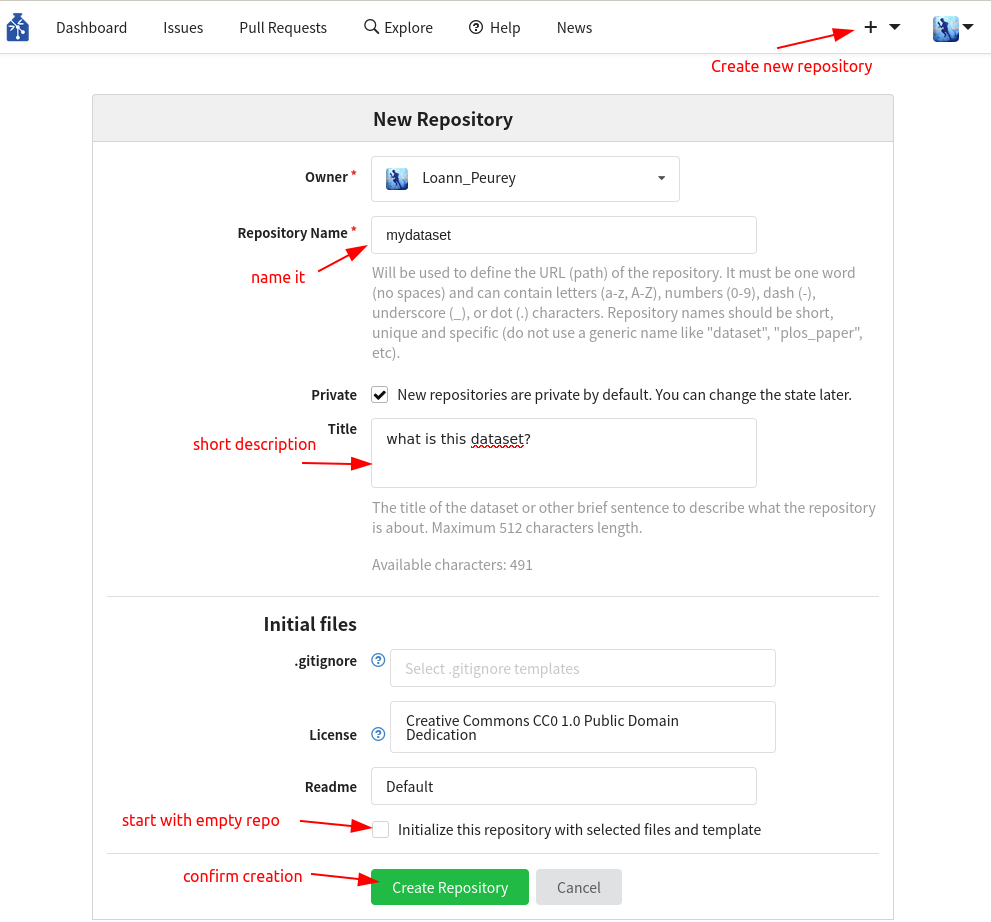
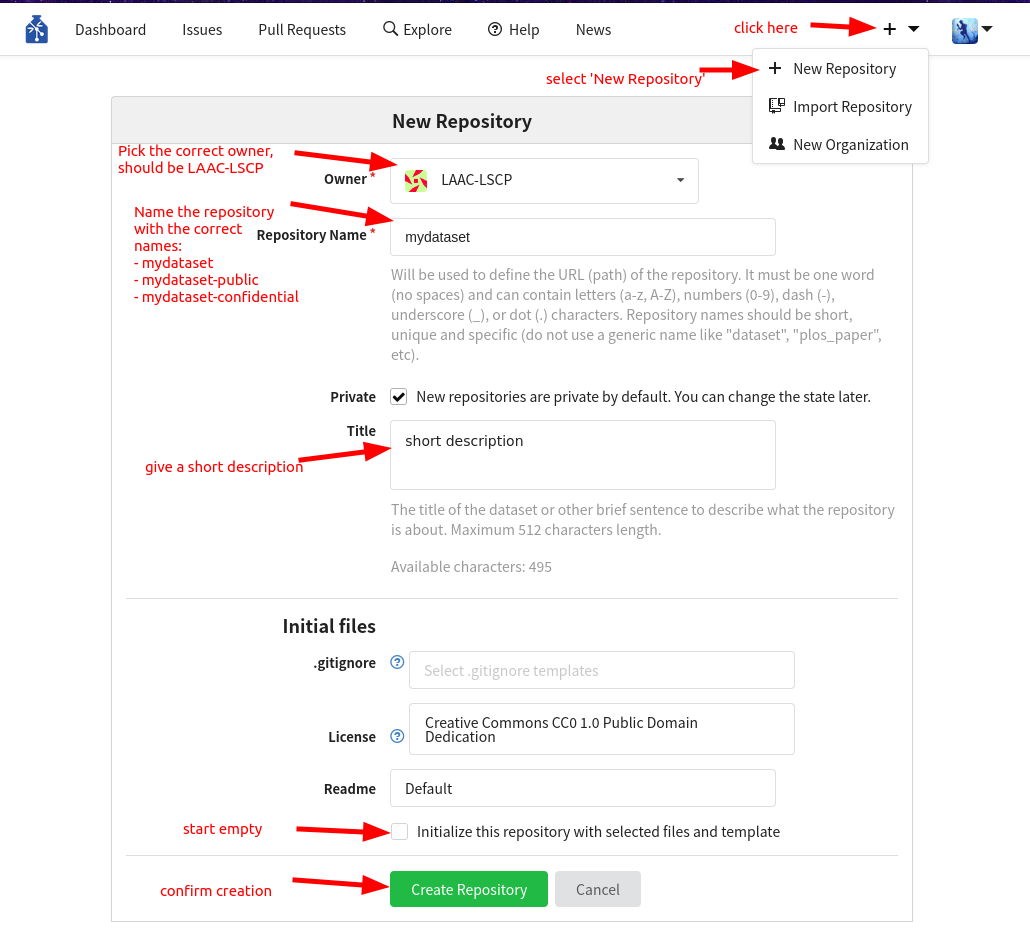
GIN repos and datalad-procedures usage

diff --git a/docs/create-a-new-dataset.md b/docs/create-a-new-dataset.md
@@ -74,9 +74,9 @@ child-project --version
 
 To facilitate the dataset creation, we use templates that you need to install. First navigate your working folder (e.g. `cd /scratch2/<username>` replace username with your actual username). Enter the following command lines to clone the repo and launch the installation :
 ```bash
-cd /scratch2/username #change the path to a working directory
+cd /scratch2/username #change the path to a working directory where we create a new folder for the installation
 
-# copy the code into a new folder
+# copy the code into a new folder named datalad-procedures
 git clone https://github.com/LAAC-LSCP/datalad-procedures.git
 
 # go into the newly created folder
@@ -119,7 +119,7 @@ Confirm the addition of the key.
 
 ![confirm addition](../ressources/img/gin-confirm-ssh.png)
 
-## It has been a long time since I have done this:
+## I have done this before, get me back on track:
 
 This section lists the checks you should carry out before using the guide, knowing that you went through it before and you should not need to install new programms or register to new websites. If it does not work out, go back to the relevant [first use section](#first-time-users).
 
@@ -163,24 +163,14 @@ cfg_laac (/my/conda/env/lib/python3.6/site-packages/datalad/resources/procedures
 ```
 Look for the `cfg_laac` entry in the list, it is the one we want to use. You are good to go if it is there.
 
+Otherwise, refer to the [installation section](#datalad-procedures).
+
 ### GIN account
 
 If you did that in the past, you should already have a GIN account. [Sign in](https://gin.g-node.org/user/login?redirect_to=){:target="_blank"} to your GIN account.
 You should check that the computer you are working from has a linked ssh key to GIN. Go to your account's [ssh settings](https://gin.g-node.org/user/settings/ssh){:target="_blank"} and search in the list for the key associated to the machine you are working with (most likely oberon). If you can't find it, you may need to [add it](#gin-account).
 
-## Prerequisites
-
-In order to follow this guide, you will need to have childproject installed along with datalad and git-annex. If that is not the case, follow the [installation instructions](https://childproject.readthedocs.io/en/latest/install.html#installation){:target="_blank"}. You most likely will run it in a conda environment, so make sure it is activated:
-```bash
-conda activate childproject
-```
-
-We use [GIN](https://gin.g-node.org/G-Node/info/wiki){:target="_blank"} as an online platform for storing our repositories. To publish your dataset, you will need a GIN account that has writing permissions for your dataset. You should have created an account already, if not do it [here](https://gin.g-node.org/user/sign_up){:target="_blank"}. Once you have an account, Loann/Alex should give you writing permissions on a dataset within the [LAAC-LSCP organization](https://gin.g-node.org/LAAC-LSCP/).
-For every new computer that you will use to push updates to your dataset, You have to register an SSH key to allow SSH access (you can find an explanation of what SSH keys are and how you can create one in this [tutorial](https://docs.github.com/en/authentication/connecting-to-github-with-ssh/about-ssh){:target="_blank"}). You only need to do this once per computer, and it'll be set for all of your datasets & forever. To set SSH access, visit the [settings of your user account](https://gin.g-node.org/user/settings/ssh){:target="_blank"}. In the “SSH Keys” tab, click the button “Add Key”:
-![Add your SSH key](../ressources/img/gin-add-ssh.png)
-Give the key an informative name that will allow you to remember what computer it belongs to (eg “oberon-lpeurey”).
-
-## Preparing a GIN repository
+## 1. Preparing GIN repositories (5min)
 
 We are going to need a new repository on GIN where we will store our dataset and manage people's access to it once it is ready to be shared.
 Inside the lab, we regroup our datasets in the LAAC-LSCP GIN organization, so the dataset should be created there. If you have the permissions necessary to create a new repository for the organization, follow the steps in the attached figure. If you are an intern, discuss with Alex/Loann of your need of a new repository.
@@ -189,46 +179,23 @@ Unless your dataset is public (e.g. from CHILDES), you'll need 3 levels of acces
 - collaborators => data that is shared with collaborators when we grant them access to the data, usually under NDA (e.g. recordings, transcriptions)
 - public => data that can be accessed by anybody, completely anonymous so no audio, no transcription, no personal metadata (e.g. converted automated annotations).
 
-To create those levels of access, create 3 **empty** repositories in your GIN organization: `<dataset-name>` , `<dataset-name>-public` and `<dataset-name>-confidential`, e.g. `mydataset` , `mydataset-public` and `mydataset-confidential`.
-If your dataset is public, then you can create a single repository that will be public.
+If you are the one creating the repos (most likely Loann will have to create them for you), use the [creating a repo](https://gin.g-node.org/repo/create){:target="_blank"} page **3 times** in your GIN organization and create the **empty** reposotories named: 
+- `<dataset-name>` (e.g. `mydataset`)
+- `<dataset-name>-public` (e.g. `mydataset-public`)
+- `<dataset-name>-confidential` (e.g. `mydataset-confidential`)
+
+If your dataset is public, you will create a single repository that will be public.
 ![Create your Gin repository](../ressources/img/create-gin-repo.png)
 
-## Creating the base structure and datalad repository
+## 2. Creating the base structure and datalad repository (10min)
 
-### Installating the procedures
+Here we will only use the laac template which is the one we will use most of the time. If you want, you can read more about that configuration and the other templates available in [the repo](https://github.com/LAAC-LSCP/datalad-procedures){:target="_blank"}.
 
-To create your new dataset, we will borrow some help from the `datalad-procedures` code which was created for this specific pupose. If you have already created a dataset in the past, your procedures may already be set up. 
-To check your available templates, run `datalad run-procedure --discover` and explore the outputted list:
-```
-cfg_laac1 (/my/conda/env/lib/python3.6/site-packages/datalad/resources/procedures/cfg_laac1.py) [python_script]
-cfg_yoda (/my/conda/env/lib/python3.6/site-packages/datalad/resources/procedures/cfg_yoda.py) [python_script]
-cfg_el1000 (/my/conda/env/lib/python3.6/site-packages/datalad/resources/procedures/cfg_el1000.py) [python_script]
-cfg_text2git (/my/conda/env/lib/python3.6/site-packages/datalad/resources/procedures/cfg_text2git.py) [python_script]
-cfg_metadatatypes (/my/conda/env/lib/python3.6/site-packages/datalad/resources/procedures/cfg_metadatatypes.py) [python_script]
-cfg_laac2 (/my/conda/env/lib/python3.6/site-packages/datalad/resources/procedures/cfg_laac2.py) [python_script]
-cfg_laac (/my/conda/env/lib/python3.6/site-packages/datalad/resources/procedures/cfg_laac.py) [python_script]
-```
-
-If you spot `cfg_laac1`, `cfg_laac2`, `cfg_laac` and `cfg_el1000` in the list, you are already good to go and can skip to the [next section](#using-templates). If they are not here, we will have to install them. To do so, clone the repo (or navigate to it if you already have it) and launch the installation :
-```bash
-git clone https://github.com/LAAC-LSCP/datalad-procedures.git
-cd datalad-procedures
-pip install -r requirements.txt
-python install.py
-```
-
-Check again the available templates with `datalad run-procedure --discover`.
-You should now have `cfg_laac1`, `cfg_laac2`, `cfg_laac` and `cfg_el1000` in the outputted list.
-
-### Using templates
-
-We will concentrate on using the laac template which is the one we will use most of the time. You can read more about that configuration and the other templates available in [the repo](https://github.com/LAAC-LSCP/datalad-procedures){:target="_blank"}.
-
-With the next set of commands, we prepare the necessary parameters by setting the GIN organization you will use and wether to create a confidential and public sibling or not. If you use a confidential sibling, make sure you created 2 repositories on GIN at [the previous step](#preparing-a-gin-repository)
+The next set of commands must be run to set the parameters
 ```bash
 export GIN_ORGANIZATION='LAAC-LSCP' # name of the GIN organization
-export CONFIDENTIAL_DATASET=1 # set to 0 if there should not be a confidential sibling
-export PUBLIC_DATASET=1 # set to 0 if there should not be a confidential sibling
+export CONFIDENTIAL_DATASET=1 # set to 0 if there should not be a confidential repository
+export PUBLIC_DATASET=1 # set to 0 if there should not be a confidential repository
 ```
 Now we can create the actual datalad repository, the procedure used will build the file structure according to [ChildProject standards](https://childproject.readthedocs.io/en/latest/format.html){:target="_blank"}. First change directory to where you want your new dataset created, then create it. Replace `mydataset` by the name of your GIN repository.
 ```bash
@@ -236,7 +203,7 @@ cd /path/to/a/folder #change directory
 datalad create -c laac mydataset
 ```
 
-The output you'll see looks something like this:
+The output you get will resemble this (but can have some differences):
 ```
 [INFO   ] Creating a new annex repo at /scratch2/lpeurey/datasets/mydataset/
 [INFO   ] Scanning for unlocked files (this may take some time) 
@@ -252,6 +219,12 @@ The output you'll see looks something like this:
 .: confidential(+) [git@gin.g-node.org:/LAAC-LSCP/mydataset-confidential.git (git)]    
 [INFO   ] Configure additional publication dependency on "confidential"         
 .: origin(+) [git@gin.g-node.org:/LAAC-LSCP/mydataset.git (git)]
+[INFO   ] Could not enable annex remote public. This is expected if public is a pure Git remote, or happens if it is not accessible. 
+[WARNING] Could not detect whether public carries an annex. If public is a pure Git remote, this is expected.  
+.: public(-) [git@gin.g-node.org:/LAAC-LSCP/mydataset-public.git (git)]
+.: public(+) [git@gin.g-node.org:/LAAC-LSCP/mydataset-public.git (git)]    
+[INFO   ] Configure additional publication dependency on "public"         
+.: origin(+) [git@gin.g-node.org:/LAAC-LSCP/mydataset.git (git)]
 [INFO   ] == Command exit (modification check follows) ===== 
 create(ok): /scratch2/lpeurey/datasets/mydataset/ (dataset)
 ```
@@ -265,7 +238,7 @@ Your default branch may be set to 'git-annex', change this in the settings:
 ![Explore your GIN repo online](../ressources/img/default-branch_git-annex.png)
 ![Explore your GIN repo online](../ressources/img/change-default-branch.png)
 
-## Organizing raw data
+## 3. Organizing raw data (2 hours)
 
 go into your new dataset : `cd mydataset`
 
@@ -457,7 +430,7 @@ datalad save . -m "message about what changes were made"
 datalad push
 ```
 
-## Link everything : The new metadata
+## 4. Link everything : The new metadata (1 hour)
 
 We now need to create the metadata files that childproject uses to link all the files together.
 For an overview of the files needed and their format, head to [ChildProject format](https://childproject.readthedocs.io/en/latest/format.html){:target="_blank"}
@@ -492,7 +465,7 @@ child-project validate .
 ```
 Read through the output to see if the validation was successful. If not, fix the errors and re-run the validation until it passes.
 
-## Import the annotations
+## 5. Import the annotations (2 hours)
 
 ### General aspects
 
@@ -586,7 +559,7 @@ After going through those steps, if you did not manage to get the set imported c
 Custom importation allows you to define your file converter yourself, defining how the original file should be handled and what information inside should be kept and stored into the resulting annotations.
 Head to [this page](https://childproject.readthedocs.io/en/latest/api-annotations.html#custom-converter){:target="_blank"}.
 
-## Save and push
+### Save and push
 
 Once again, after carrying out changes to the dataset, we need to save its current state and push modifications online
 ```bash
